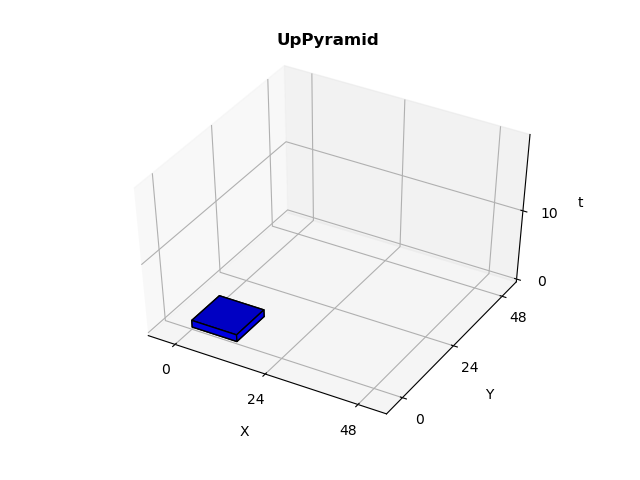
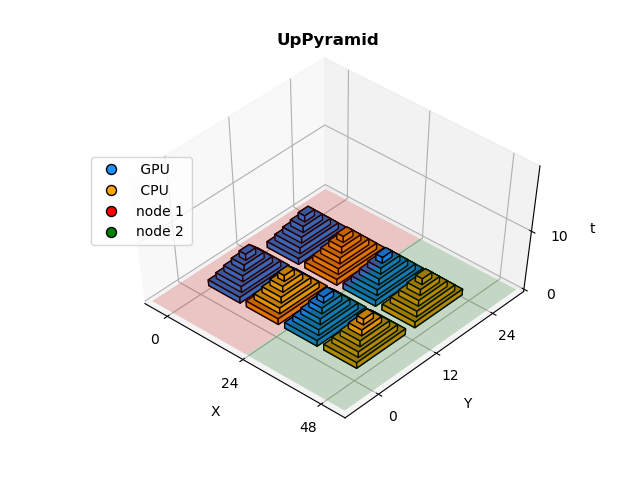
Making bridges

diff --git a/pysweep/tests/dshapes.py b/pysweep/tests/dshapes.py
@@ -16,39 +16,52 @@ from sweep.dcore import block
 
 colors = ['dodgerblue','orange','dodgerblue','orange','dodgerblue','orange']
 symbols = cycle(['o','o','o','o'])
-elev = 45
+elev = 53
+azim=-48
 bsx = 12
-ops = 2
+bsh = int(bsx/2)
+ops = 1
 nd = 4
+ndy = 2
 npx = nd*bsx
+npy = ndy*bsx
 MPSS = int(bsx/(2*ops)-1)
 slb = 0
 sub = npx
 
+def make_node_surfaces(ax,colors,spacing):
+    """Use this method to make node base colors"""
+    for i,c in enumerate(colors):
+        xx, yy = np.meshgrid([i*spacing-bsh,(i+1)*spacing-bsh], [-bsh,npy+bsh])
+        zz = np.zeros(np.shape(xx))*-1
+        ax.plot_surface(xx,yy,zz,color=c,alpha=0.2)
+
 def make_block(ax,start,length,width,height,sc="blue"):
     """Use this function to make a block surface"""
-    xx, yy = np.meshgrid([start[0],start[0]+length], [start[1],start[1]+length])
+    alp = 1
+    xx, yy = np.meshgrid([start[0],start[0]+length], [start[1],start[1]+width])
     zz = np.ones(np.shape(xx))*start[2]
-    ax.plot_surface(xx,yy,zz,color=sc,edgecolors='black')
-    xx, yy = np.meshgrid([start[0],start[0]+length], [start[1],start[1]+length])
+    ax.plot_surface(xx,yy,zz,color=sc,edgecolors='black',alpha=alp)
+    xx, yy = np.meshgrid([start[0],start[0]+length], [start[1],start[1]+width])
     zz = np.ones(np.shape(xx))*(start[2]+height)
-    ax.plot_surface(xx,yy,zz,color=sc,edgecolors='black')
-    xx, yy = np.meshgrid([start[0],start[0]+height], [start[1],start[1]+length])
+    ax.plot_surface(xx,yy,zz,color=sc,edgecolors='black',alpha=alp)
+    xx, yy = np.meshgrid([start[2],start[2]+height], [start[1],start[1]+width])
     zz = np.ones(np.shape(xx))*(start[0])
-    ax.plot_surface(zz,yy,xx,color=sc,edgecolors='black')
-    xx, yy = np.meshgrid([start[0],start[0]+length], [start[1],start[1]+height])
-    ax.plot_surface(xx,zz,yy,color=sc,edgecolors='black')
-    xx, yy = np.meshgrid([start[0],start[0]+height], [start[1],start[1]+length])
-    zz = np.ones(np.shape(xx))*(start[2]+length)
-    ax.plot_surface(zz,yy,xx,color=sc,edgecolors='black')
-    xx, yy = np.meshgrid([start[0],start[0]+length], [start[1],start[1]+height])
-    ax.plot_surface(xx,zz,yy,color=sc,edgecolors='black')
+    ax.plot_surface(zz,yy,xx,color=sc,edgecolors='black',alpha=alp)
+    zz = np.ones(np.shape(xx))*(start[1])
+    xx, yy = np.meshgrid([start[0],start[0]+length], [start[2],start[2]+height])
+    ax.plot_surface(xx,zz,yy,color=sc,edgecolors='black',alpha=alp)
+    xx, yy = np.meshgrid([start[2],start[2]+height], [start[1],start[1]+width])
+    zz = np.ones(np.shape(xx))*(start[0]+length)
+    ax.plot_surface(zz,yy,xx,color=sc,edgecolors='black',alpha=alp)
+    zz = np.ones(np.shape(xx))*(start[1]+width)
+    xx, yy = np.meshgrid([start[0],start[0]+length], [start[2],start[2]+height])
+    ax.plot_surface(xx,zz,yy,color=sc,edgecolors='black',alpha=alp)
 
 
-def UpPyramids():
+def SweptPlot():
     fig = plt.figure()
-    # fig.suptitle("UpPyramid",fontweight="bold")
-    ax = fig.add_subplot(1,1,1,projection='3d',elev=elev)
+    ax = fig.add_subplot(1,1,1,projection='3d',elev=elev,azim=azim)
     ax.set_title("UpPyramid",fontweight='bold',y=1.1)
     upsets = block.create_dist_up_sets((bsx,bsx,1),ops)
     yset,xset = block.create_dist_bridge_sets((bsx,bsx,1),ops,MPSS)
@@ -59,108 +72,53 @@ def UpPyramids():
     zlim = 20
     bsh = int(bsx/2)
     ax.set_zlim3d([0,zlim])
-    ax.set_ylim3d([slb-bsh,sub+bsh])
+    ax.set_ylim3d([slb-bsh,npy+bsh])
     ax.set_xlim3d([slb-bsh,sub+bsh])
     ax.get_zaxis().set_ticks([0,10])
     ax.get_xaxis().set_ticks([0,int(bsx*nd/2),int(bsx*nd)])
-    ax.get_yaxis().set_ticks([0,int(bsx*nd/2),int(bsx*nd)])
-    make_block(ax,(0,0,0),bsx,bsx,1)
-    # x1,y1 = zip(*upsets[0])
-    # z0 = np.zeros(len(x1))
-    # z1 = np.ones(len(x1))
-    # z = np.concatenate((z0,z1))
-    # x = np.concatenate((x1,x1))
-    # y = np.concatenate((y1,y1))
-    # ct = 0
-    # ax.plot_trisurf(x,y,z,alpha=1,color=colors[ct])
+    ax.get_yaxis().set_ticks([0,int(npy/2),npy])
+    make_node_surfaces(ax,['red','green'],(npx+bsx)/ndy)
+    #Create UpPyramids
+    ct = 0
+    for i in range(nd):
+        for j in range(ndy):
+            for k in range(1,len(upsets)+1):
+                make_block(ax,(k*ops+i*bsx,k*ops+j*bsx,k),bsx-2*ops*k,bsx-2*ops*k,1,sc=colors[ct])
+        ct+=1
 
-    # ms = 6
-    # ct = 0
-    # lines = []
-    # for bdx in range(int(npx/bsx)):
-    #     cs = next(symbols)
-    #     for bdy in range(0,int(npx/bsx),1):
-    #         x1 = []
-    #         y1 = []
-    #         z1 = []
-    #         for k,uset in enumerate(upsets,start=1):
-    #             for i,j in uset:
-    #                 tx = i+bdx*bsx
-    #                 ty = j+bdy*bsx
-    #                 if tx>=slb and tx<=sub and ty>=slb and ty<=sub:
-    #                     x1.append(tx)
-    #                     y1.append(ty)
-    #                     z1.append(k)
-    #         line = ax.plot_trisurf(x1,y1,z1,alpha=1,color=colors[ct])
-    #     lines.append(line)
-    #     ct+=1
-    # l1 = ax.plot_surface(xx1,yy1,zz1,color='red',alpha=.5)
-    # l2 = ax.plot_surface(xx2,yy2,zz2,color='green',alpha=.5)
-    # f = lambda x,y,z: mplot3d.proj3d.proj_transform(x,y,z, ax.get_proj())[:2]
-    # leg1 = plt.legend(lines[:2],[' GPU   ',' CPU   '],markerscale=2,ncol=2,loc="lower center", bbox_to_anchor=f(25.5,0,-19),
-    #       bbox_transform=ax.transData)
-    # ax.add_artist(leg1)
-    # fl1 = mpl.lines.Line2D([0],[0], linestyle="none", c='red', marker = 'o',markersize=ms,markeredgecolor='black')
-    # fl2 = mpl.lines.Line2D([0],[0], linestyle="none", c='green', marker = 'o',markersize=ms,markeredgecolor='black')
-    # leg2 = ax.legend([fl1,fl2], ['node 1','node 2'],ncol=4,markerscale=1.1, loc="lower center", bbox_to_anchor=f(25,0,-25), bbox_transform=ax.transData)
-    # ax.gca().add_artist(leg1)
+    ms = 6
+    scale = 1.2
+    f = lambda x,y,z: mplot3d.proj3d.proj_transform(x,y,z, ax.get_proj())[:2]
+    fl1 = mpl.lines.Line2D([0],[0], linestyle="none", c='dodgerblue', marker = 'o',markersize=ms,markeredgecolor='black')
+    fl2 = mpl.lines.Line2D([0],[0], linestyle="none", c='orange', marker = 'o',markersize=ms,markeredgecolor='black')
+    fl3 = mpl.lines.Line2D([0],[0], linestyle="none", c='red', marker = 'o',markersize=ms,markeredgecolor='black')
+    fl4 = mpl.lines.Line2D([0],[0], linestyle="none", c='green', marker = 'o',markersize=ms,markeredgecolor='black')
+    leg1 = ax.legend([fl1,fl2,fl3,fl4],[' GPU   ',' CPU    ','node 1','node 2'],markerscale=scale,ncol=1,loc="lower left", bbox_to_anchor=f(-40,0,-5),
+          bbox_transform=ax.transData)
     plt.savefig('UpPyramid.png')
     ax.set_title("Y-Bridge",fontweight='bold',y=1.1)
 
-    # ct = 0
-    # lines = []
-    # for bdx in range(0,int(npx/bsx),1):
-    #     cs = next(symbols)
-    #     for bdy in range(-1,int(npx/bsx)+1,1):
-    #         x1 = []
-    #         y1 = []
-    #         z1 = []
-    #         for k,uset in enumerate(yset,start=1):
-    #             for i,j in uset:
-    #                 tx = i+bdx*bsx
-    #                 ty = j+bdy*bsx+bsx/2
-    #                 if tx>=slb and tx<=sub and ty>=slb and ty<=sub:
-    #                     x1.append(tx)
-    #                     y1.append(ty)
-    #                     z1.append(k)
-    #         line = ax.scatter(x1,y1,z1,marker=cs,alpha=1,edgecolor='black',s=12,facecolor=colors[ct])
-    #     lines.append(line)
-    #     ct+=1
-    # plt.savefig('YBridge.png')
-    # ax.set_title("X-Bridge",fontweight='bold',y=1.1)
-    # ct = 0
-    # lines = []
-    # for bdx in range(-1,int(npx/bsx)+1,1):
-    #     cs = next(symbols)
-    #     for bdy in range(-1,int(npx/bsx)+1,1):
-    #         x1 = []
-    #         y1 = []
-    #         z1 = []
-    #         for k,uset in enumerate(xset,start=1):
-    #             for i,j in uset:
-    #                 tx = i+bdx*bsx+bsx/2
-    #                 ty = j+bdy*bsx
-    #                 if tx>=slb and tx<=sub and ty>=slb and ty<=sub:
-    #                     x1.append(tx)
-    #                     y1.append(ty)
-    #                     z1.append(k)
-    #         line = ax.scatter(x1,y1,z1,marker=cs,alpha=1,edgecolor='black',s=12,facecolor=colors[ct])
-    #     lines.append(line)
-    #     ct+=1
-    # plt.savefig('YBridge.png')
-    # ax.set_title("X-Bridge",fontweight='bold',y=1.1)
-    # # plt.savefig('XBridge.png')
-
+    # Create Y-Bridges
+    ct = 0
+    for i in range(nd):
+        for k in range(1,len(yset)+1):
+            make_block(ax,(k*ops+i*bsx,bsx-ops-k*ops,k),bsx-2*ops*k,2*ops*(k)+ops,1,sc=colors[ct])
+        ct+=1
+    #Close Edge Y Bridges
+    ct = 0
+    for i in range(nd):
+        for k in range(1,len(yset)+1):
+            make_block(ax,(k*ops+i*bsx,0,k),bsx-2*ops*k,ops*(k),1,sc=colors[ct])
+        ct+=1
+    #Far Edge Y Bridges
+    ct = 0
+    for i in range(nd):
+        for k in range(1,len(yset)+1):
+            make_block(ax,(k*ops+i*bsx,npy-ops*k,k),bsx-2*ops*k,ops*(k),1,sc=colors[ct])
+        ct+=1
+    plt.savefig('YBridge.png')
     plt.show()
 
 
-def filter_set(set,idx):
-    new_set = []
-    for T in set:
-        if T[idx]>=slb and T[idx]<=sub:
-            new_set.append(T)
-    return new_set
-
-
 if __name__ == "__main__":
-    UpPyramids()
+    SweptPlot()
